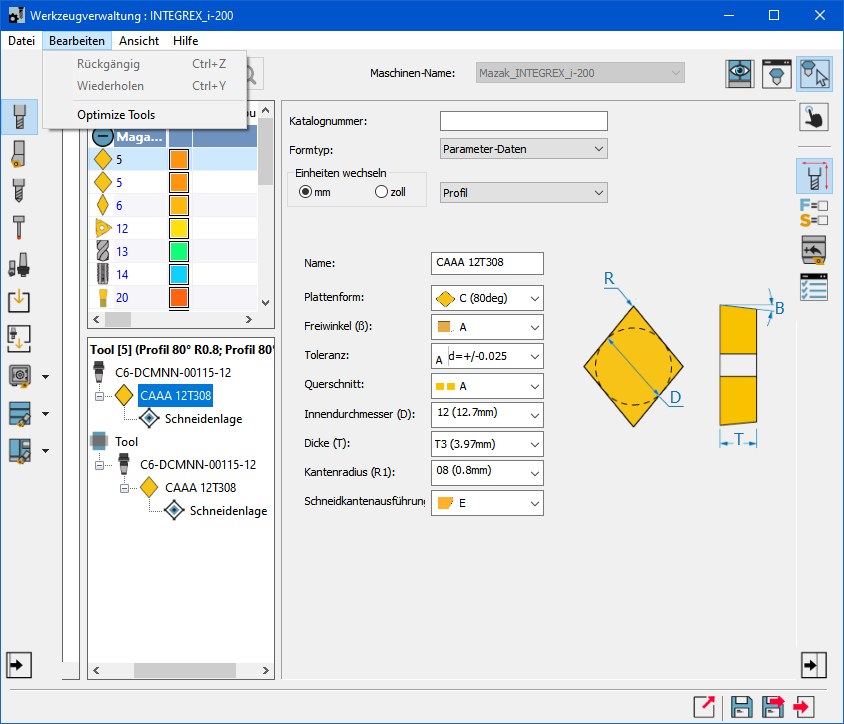
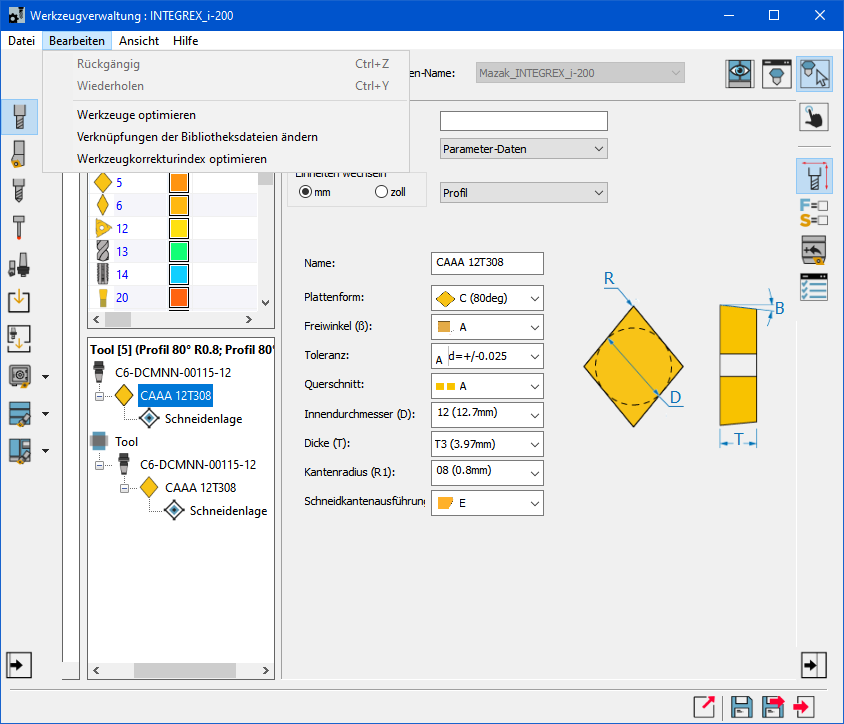
Add files via upload

Changed region(s): [[0.0616, 0.0608, 0.4313, 0.2431], [0.4313, 0.0608, 0.4929, 0.1215]]

diff --git a/INTEGREX_-_ToolKit_Help/html/converted_CAM_parts.html b/INTEGREX_-_ToolKit_Help/html/converted_CAM_parts.html
@@ -14,13 +14,15 @@
 		<main>
 			<article>
 				<h1>Anpassungen bei CAM-Teilen aus vorherigen Versionen</h1>
+				<p>Da sich mit der neuen Werkzeugverwaltung die Art der Werkzeugdefinition geändert hat, muss nach der konvertierung bestehender CAM-Teile jeweil die Werkzeugtabelle überprüft und ggf. korrigiert werden.</p>
+				<h2>B-Achs-Werkzeuge</h2>
 				<p>Nach der Konvertierung von CAM-Teilen aus vorherigen Versionen werden Werkzeuge, die mit mehreren Korrekturen oder verschiedenen Ausrichtungen angelegt wurden, als Mehrfach-Werkzeuge – d.h. als <mark class="result" data-target="i01Multi">verschiedene Werkzeuge auf demselben Platz</mark> – aufgelistet.<br>
 					<svg width="844" height="724">
 						<image xlink:href="../img/01ConvertedToolTable.png" />
 						<rect class="SvgR" id="i01Multi" x="87" y="337" width="188" height="189" />
 					</svg>
 				</p>
-				<p>Die neue Werkzeugverwaltung bietet eine Möglichkeit, die Werkzeuge automatisch zu korrigieren. Dazu wird in der Menüleiste <mark class="target" data-target="i02Edit">Bearbeiten</mark> &rAarr; <mark class="target" data-target="i02Optimize">Optimize Tools</mark> angewählt.<br>
+				<p>Die neue Werkzeugverwaltung bietet eine Möglichkeit, die Werkzeuge automatisch zu korrigieren. Dazu wird in der Menüleiste <mark class="target" data-target="i02Edit">Bearbeiten</mark> &rAarr; <mark class="target" data-target="i02Optimize">Werkzeuge optimieren</mark> angewählt.<br>
 					<svg width="844" height="724">
 						<image xlink:href="../img/02OptimizeToolsSelection.png" />
 						<rect class="SvgT" id="i02Edit" x="42" y="31" width="70" height="19" />
@@ -29,16 +31,16 @@
 				</p>
 				<p>Im folgenden Fenster kann – für jede erkannte Werkzeugpaarung separat – entschieden werden, wie die Werkzeugpaare korrigiert werden sollen.<br>
 					<ul>
-						<li><mark class="setting" data-target="i03Multi">Keep as Multi-Tool</mark>: Die Option nimmt keine Änderung an der Art des Werkzeugpaares vor. Diese Option ist beispielsweise zu verwenden, wenn verschiedene Werkzeuge in einem Mehrfach-Halter gespannt sind.</li>
-						<li><mark class="setting" data-target="i03Separate">Disassambly to separate Tools</mark>: Die Option macht aus der Werkzeugpaarung einzelne Werkzeuge mit jeweils einer eigenen Werkzeugnummer.<br>
+						<li><mark class="setting" data-target="i03Multi">Als Mehrfachwerkzeug behalten</mark>: Die Option nimmt keine Änderung an der Art des Werkzeugpaares vor. Diese Option ist beispielsweise zu verwenden, wenn verschiedene Werkzeuge in einem Mehrfach-Halter gespannt sind.</li>
+						<li><mark class="setting" data-target="i03Separate">Separate Werkzeuge erstellen</mark>: Die Option macht aus der Werkzeugpaarung einzelne Werkzeuge mit jeweils einer eigenen Werkzeugnummer.<br>
 							Dabei ist zu beachten, dass ein Werkzeug die ursprüngliche Werkzeugnummer behält und für die anderen die jeweils niedrigste freie Werkzeugnummer verwendet wird. Ist von mehreren Werkzeugen mit derselben Nummer nur eins in Verwendung, behält dieses die ursprüngliche Werkzeugnummer.</li>
-						<li><mark class="setting" data-target="i03Same">Same Tool with new Cutting Point</mark>: Diese Option ist die wahrscheinlich meist zutreffende Funktion, mit der aus den Werkzeugpaaren ein Werkzeug mit 2 – ggf. auch mehr – Schneidenpunkten erzeugt wird.</li>
+						<li><mark class="setting" data-target="i03Same">Gleiches Werkzeug mit mehreren Schneidenlagen</mark>: Diese Option ist die wahrscheinlich meist zutreffende Funktion, mit der aus den Werkzeugpaaren ein Werkzeug mit 2 – ggf. auch mehr – Schneidenpunkten erzeugt wird.</li>
 					</ul>
 					<svg width="665" height="404">
 						<image xlink:href="../img/03OptimizeToolsOptions.png" />
-						<rect class="SvgS" id="i03Multi" x="343" y="58" width="108" height="17" />
+						<rect class="SvgS" id="i03Multi" x="343" y="58" width="173" height="17" />
 						<rect class="SvgS" id="i03Separate" x="343" y="81" width="165" height="17" />
-						<rect class="SvgS" id="i03Same" x="343" y="102" width="288" height="17" />
+						<rect class="SvgS" id="i03Same" x="343" y="102" width="288" height="32" />
 					</svg>
 				</p>
 				Nach einer Optimierung mit <mark>Same Tool with new Cutting Point</mark> wird im <mark class="result" data-target="i04Assembly">Komplettwerkzeug-Aufbau</mark> aus mehreren Werkzeugen auf einem Werkzeugplatz <mark class="result" data-target="i04CutPnt">ein Werkzeug mit 2 Schneidenpunkten</mark> (in diesem Fall mit „Schneidenlage“ und „Schneidenlage_1“ benannt).<br>
@@ -50,10 +52,26 @@
 					<rect class="SvgR" id="i04Assembly" x="85" y="335" width="192" height="347" />
 					<rect class="SvgR" id="i04CutPnt" x="88" y="338" width="186" height="116" />
 				</svg>
+				<hr>
+				<h2>Revolver-Werkzeuge</h2>
+				<p>Speziell für die um X rotierende Revolver der INTEGREX ST-Maschinen und die damit mögliche Ausrichtung des selben Werkzeugedwar für Haupt- und Gegenspindel, machten in Verbindung mit der neuen Werkzeugverwaltung eine Korrektur der Maschinen-ID (VMID) notwendig.<br>
+					Dadurch bedingt sind die Revolver-Werkzeuge konvertierter CAM-Teilen <mark class="result" data-target="i201HolderRotated">um 180°</mark> rotiert ausgerichtet.<br>
+					<svg width="1588" height="712">
+						<image xlink:href="../img/201TurretToolStationDirection.png" />
+						<rect class="SvgR" id="i201HolderRotated" x="971" y="81" width="607" height="503" />
+					</svg>
+				</p>
+				<p>Um das zu korrigieren muss lediglich bei der jeweils <mark class="target" data-target="i202Holder">obersten Komponente</mark> auf dem jeweiligen Werkzeugplatz beim <mark class="target" data-target="i202Joint">Verbindungspunkt</mark> die <mark class="setting" data-target="i202RotZ">Drehung um Z</mark> um 180° korigiert werden.</p>
+					<svg width="1588" height="712">
+						<image xlink:href="../img/202TurretToolCorrected.png" />
+						<rect class="SvgT" id="i202Holder" x="119" y="469" width="178" height="27" />
+						<rect class="SvgT" id="i202Joint" x="912" y="191" width="41" height="39" />
+						<rect class="SvgS" id="i202RotZ" x="616" y="193" width="94" height="24" />
+					</svg>
 			</article>
 		</main>
 		<nav class="TOC">
-			<a href="../main.html"><b>Start</b></a><br>
+			<a href="../help_de.html"><b>Start</b></a><br>
 			<ul><li><a href="tool_predefinitions.html" title="Enthält allgemeine Informationen zu den vordefinierbaren Werten">Vordefinition von Dreh-Werkzeugen</a>
 				<li><a class="curr">Konvertierte CAM-Teile</a></li></ul>
 		</nav>

diff --git a/INTEGREX_-_ToolKit_Help/html/example_tool_slope.html b/INTEGREX_-_ToolKit_Help/html/example_tool_slope.html
@@ -21,22 +21,22 @@
 					<svg width="1332" height="722">
 						<image xlink:href="../img/101Tool90degStandard.png" />
 						<rect class="SvgT" id="i101MeasureOri" x="559" y="168" width="230" height="107" />
-						<rect class="SvgS" id="i101Ori" x="572" y="196" width="71" height="19" />
-						<rect class="SvgS" id="i101SlopeAng" x="572" y="226" width="203" height="26" />
+						<rect class="SvgT" id="i101Ori" x="572" y="196" width="71" height="19" />
+						<rect class="SvgT" id="i101SlopeAng" x="572" y="226" width="203" height="26" />
 					</svg></li>
 				<li>Ausgerichtet für das Längsdrehen an der Gegenspindel - <mark class="setting" data-target="i102Ori">rückwärts ausgerichtet</mark>, <mark class="setting" data-target="i102SlopeAng">Anstellwinkel 90°</mark>
 					<svg width="1332" height="722">
 						<image xlink:href="../img/102Tool90degReversedForSub.png" />
 						<rect class="SvgT" id="i102MeasureOri" x="559" y="168" width="230" height="107" />
-						<rect class="SvgS" id="i102Ori" x="572" y="196" width="71" height="19" />
-						<rect class="SvgS" id="i102SlopeAng" x="572" y="226" width="203" height="26" />
+						<rect class="SvgT" id="i102Ori" x="572" y="196" width="71" height="19" />
+						<rect class="SvgT" id="i102SlopeAng" x="572" y="226" width="203" height="26" />
 					</svg></li>
 				<li>Ausgerichtet für das Plandrehen an der Hauptspindel - <mark class="setting" data-target="i103Ori">rückwärts ausgerichtet</mark>, <mark class="setting" data-target="i103SlopeAng">Anstellwinkel 0°</mark>
 					<svg width="1332" height="722">
 						<image xlink:href="../img/103Tool0degReversed.png" />
 						<rect class="SvgT" id="i103MeasureOri" x="559" y="168" width="230" height="107" />
-						<rect class="SvgS" id="i103Ori" x="572" y="196" width="71" height="19" />
-						<rect class="SvgS" id="i103SlopeAng" x="572" y="226" width="203" height="26" />
+						<rect class="SvgT" id="i103Ori" x="572" y="196" width="71" height="19" />
+						<rect class="SvgT" id="i103SlopeAng" x="572" y="226" width="203" height="26" />
 					</svg></li></ol>
 				<hr>
 				<h2>Beispiel - 45°-Srupp-Werkzeug</h2>
@@ -44,27 +44,27 @@
 					<svg width="1332" height="722">
 						<image xlink:href="../img/111Tool45degStandard.png" />
 						<rect class="SvgT" id="i111MeasureOri" x="559" y="168" width="230" height="107" />
-						<rect class="SvgS" id="i111Ori" x="572" y="196" width="71" height="19" />
-						<rect class="SvgS" id="i111SlopeAng" x="572" y="226" width="203" height="26" />
+						<rect class="SvgT" id="i111Ori" x="572" y="196" width="71" height="19" />
+						<rect class="SvgT" id="i111SlopeAng" x="572" y="226" width="203" height="26" />
 					</svg></li>
 				<li>Ausgerichtet für das Längs- und Plandrehen an der Hauptspindel bei linksdrehender Spindel - <mark class="setting" data-target="i112Ori">rückwärts ausgerichtet</mark>, <mark class="setting" data-target="i112SlopeAng">Anstellwinkel 45°</mark>
 					<svg width="1332" height="722">
 						<image xlink:href="../img/112Tool45degReversed.png" />
 						<rect class="SvgT" id="i112MeasureOri" x="559" y="168" width="230" height="107" />
-						<rect class="SvgS" id="i112Ori" x="572" y="196" width="71" height="19" />
-						<rect class="SvgS" id="i112SlopeAng" x="572" y="226" width="203" height="26" />
+						<rect class="SvgT" id="i112Ori" x="572" y="196" width="71" height="19" />
+						<rect class="SvgT" id="i112SlopeAng" x="572" y="226" width="203" height="26" />
 					</svg></li>
 				<li>Ausgerichtet für das Längs- und Plandrehen an der Gegenspindel bei rechtsdrehender Spindel - <mark class="setting" data-target="i113Ori">rückwärts ausgerichtet</mark>, <mark class="setting" data-target="i113SlopeAng">Anstellwinkel 135°</mark>
 					<svg width="1332" height="722">
 						<image xlink:href="../img/113Tool45degReversedForSub.png" />
 						<rect class="SvgT" id="i113MeasureOri" x="559" y="168" width="230" height="107" />
-						<rect class="SvgS" id="i113Ori" x="572" y="196" width="71" height="19" />
-						<rect class="SvgS" id="i113SlopeAng" x="572" y="226" width="203" height="26" />
+						<rect class="SvgT" id="i113Ori" x="572" y="196" width="71" height="19" />
+						<rect class="SvgT" id="i113SlopeAng" x="572" y="226" width="203" height="26" />
 					</svg></li></ol>
 			</article>
 		</main>
 		<nav class="TOC">
-			<a href="../main.html"><b>Start</b></a><br>
+			<a href="../help_de.html"><b>Start</b></a><br>
 			<ul><li><a href="tool_predefinitions.html" title="Enthält allgemeine Informationen zu den vordefinierbaren Werten">Vordefinition von Dreh-Werkzeugen</a>
 					<ul><li><a href="tool_slope.html" title="Erläutert die, für die Werkzeugausrichtung im Schwenkkopf, nötigen Werte">Werkzeug-Ausrichtung <b>B-Achse</b></a></li>
 							<ul><li><a class="curr">Beispiel: Werkzeug-Ausrichtung</a></li>

diff --git a/INTEGREX_-_ToolKit_Help/help_de.html b/INTEGREX_-_ToolKit_Help/help_de.html
@@ -15,7 +15,7 @@
 			<article>
 				<h1>Einleitung</h1>
 				<p>Für Dreh-Werkzeuge sind, abhängig von der Maschinensteuerung, verschiedene Vorgehensweisen bei der Definition der Werkzeuge notwendig.<br>
-					Diese Hilfe gibt einen Überblick über die Besonderheiten der SolidCAM Werkzeugverwaltung in Verbindung mit Maschine der Mazak <b>INTEGREX-Serie</b> von der Mark III-Serie mit Steuerungen vom Typ <mark class="ctrlname">PC FUSION 640MT</mark> bis hin zu Maschinen der i-Serie mit <mark class="ctrlname">SmoothX</mark>-Steuerungen.
+					Diese Hilfe gibt einen Überblick über die Besonderheiten der SolidCAM Werkzeugverwaltung in Verbindung mit Maschine der Mazak <b>INTEGREX-Serie</b> von der Mark III-Serie mit Steuerungen vom Typ <mark class="ctrlname">PC FUSION 640MT</mark> bis hin zu Maschinen der i-Serie mit <mark class="ctrlname">Smooth</mark>-Steuerungen.
 				</p>
 			</article>
 		</main>
@@ -24,8 +24,8 @@
 			<ul><li><a href="html/tool_predefinitions.html" title="Enthält allgemeine Informationen zu den vordefinierbaren Werten">&rAarr; Vordefinition von Dreh-Werkzeugen</a>
 					<ul><li><a href="html/tool_slope.html" title="Erläutert die, für die Werkzeugausrichtung im Schwenkkopf, nötigen Werte">&rAarr; Werkzeug-Ausrichtung <b>B-Achse</b></a></li>
 							<ul><li><a href="html/example_tool_slope.html" title="Beispiele für verschiedene Werkzeugausrichtungen">&rAarr; Beispiel: Werkzeug-Ausrichtung</a></li>
-								<li><a href="html/example_flash_tools.html" title="Besipiele speziell für die Flash-Tool-Option">&rAarr; Beispiel: Flash-Tools</a></li></ul></li>
-						<li><a href="html/turret_tool_ori.html" title="Erläutert die, für die Werkzeugausrichtung im Revolver, nötigen Werte">&rAarr; Werkzeug-Ausrichtung <b>Revolver</b></a></li>
+								<li><a href="html/example_flash_tools.html" title="Besipiele speziell für die Flash-Tool-Option">&rAarr; Beispiel: Flash-Tools <i>(Steuerungs-Option)</i></a></li></ul></li>
+						<li><a href="html/turret_tool_ori.html" title="Erläutert die, für die Werkzeugausrichtung im Revolver, nötigen Werte">&rAarr; Werkzeug-Ausrichtung <b>Revolver</b> <i>(nur bei ST-Maschinen)</i></a></li>
 						<li><a href="html/nose_points.html" title="Erläutert die Varianten der Schneiden-Nullpunkt-Definition">&rAarr; Schneiden-Nullpunkt</a>
 							<ul><li><a href="html/example_nose_points.html" title="Enthält Beispiele zur Schneiden-Nullpunkt-Definition">&rAarr; Beispiel: Schneiden-Nullpunkt</a></li></ul></li></ul>
 				<li><a href="html/converted_CAM_parts.html" title="Erklärt notwendige Änderungen in der Werkzeugverwaltung bei CAM-Teilen aus vorherigen CAM-Versionen">&rAarr; Konvertierte CAM-Teile</a></li></ul>

diff --git a/INTEGREX_-_ToolKit_Help/html/nose_points.html b/INTEGREX_-_ToolKit_Help/html/nose_points.html
@@ -28,7 +28,7 @@
 					</svg></p>
 				<p>Definiert keiner der Quadranten-Punkte den Vermessungspunkt, wie z.B. bei einem Gewinde-Stahl, können die <mark class="setting" data-target="i15NumNosePntDef">Versatzwerte</mark> auch direkt angegeben werden. Durch die Wert-Änderung wird in der <mark class="setting" data-target="i15NosePntSelect">Quadranten-Punkt-Auswahl</mark> immer der den aktuellen Versatzwerten naheliegenste Quadranten-Punkt angezeigt.</p>
 				<p>Zur Kontrolle des gewählten Quadranten-Punktes bzw. der angegebenen Versatzwerte kann auch die <mark class="result" data-target="i15ToolPreview">Werkzeug-Vorschau</mark> zur Hilfe genommen werden.<br>
-					Dabei ist zu beachten, dass die Ansicht in der Werkzeugvorschau frei verändert werden kann, wodurch die <mark class="result" data-target="i15HomePos">Ausrichtung der Werkzeug-Vorschau</mark> nur selten mit der <mark class="result" data-target="i15NosePntOri">Ausrichtung der Quadranten-Punkt-Auswahl</mark> übereinstimmt. Dennoch kann damit die <mark class="setting" data-target="i15NosePntPreview">korrekte Lage</mark> des gewählten Punktes überprüft werden.</p>
+					Dabei ist zu beachten, dass die Ansicht in der Werkzeugvorschau frei verändert werden kann, wodurch die <mark class="result" data-target="i15HomePos">Ausrichtung der Werkzeug-Vorschau</mark> möglicherweise nicht mit der <mark class="result" data-target="i15NosePntOri">Ausrichtung der Quadranten-Punkt-Auswahl</mark> übereinstimmt. Die korrekte Position des bestimmten <mark class="setting" data-target="i15NosePntPreview">Schneiden-Bezugspunktes</mark> kann in der Vorschau trotzdem überprüft werden.</p>
 				<p><svg width="1412" height="722">
 						<image xlink:href="../img/15NosePointSettings.png" />
 						<rect class="SvgS" id="i15NosePntAct" x="288" y="167" width="69" height="21" />
@@ -99,7 +99,7 @@
 			</article>
 		</main>
 		<nav class="TOC">
-			<a href="../main.html"><b>Start</b></a><br>
+			<a href="../help_de.html"><b>Start</b></a><br>
 			<ul><li><a href="tool_predefinitions.html" title="Enthält allgemeine Informationen zu den vordefinierbaren Werten">Vordefinition von Dreh-Werkzeugen</a>
 					<ul><li><a href="tool_slope.html" title="Erläutert die, für die Werkzeugausrichtung im Schwenkkopf, nötigen Werte">Werkzeug-Ausrichtung <b>B-Achse</b></a></li>
 						<li><a href="turret_tool_ori.html" title="Erläutert die, für die Werkzeugausrichtung im Revolver, nötigen Werte">Werkzeug-Ausrichtung <b>Revolver</b></a></li>

diff --git a/INTEGREX_-_ToolKit_Help/html/example_nose_points.html b/INTEGREX_-_ToolKit_Help/html/example_nose_points.html
@@ -251,7 +251,7 @@
 			</article>
 		</main>
 		<nav class="TOC">
-			<a href="../main.html"><b>Start</b></a><br>
+			<a href="../help_de.html"><b>Start</b></a><br>
 			<ul><li><a href="tool_predefinitions.html" title="Enthält allgemeine Informationen zu den vordefinierbaren Werten">Vordefinition von Dreh-Werkzeugen</a>
 					<ul><li><a href="tool_slope.html" title="Erläutert die, für die Werkzeugausrichtung im Schwenkkopf, nötigen Werte">Werkzeug-Ausrichtung <b>B-Achse</b></a></li>
 						<li><a href="turret_tool_ori.html" title="Erläutert die, für die Werkzeugausrichtung im Revolver, nötigen Werte">Werkzeug-Ausrichtung <b>Revolver</b></a></li>

diff --git a/INTEGREX_-_ToolKit_Help/html/example_flash_tools.html b/INTEGREX_-_ToolKit_Help/html/example_flash_tools.html
@@ -274,7 +274,7 @@
 			</article>
 		</main>
 		<nav class="TOC">
-			<a href="../main.html"><b>Start</b></a><br>
+			<a href="../help_de.html"><b>Start</b></a><br>
 			<ul><li><a href="tool_predefinitions.html" title="Enthält allgemeine Informationen zu den vordefinierbaren Werten">Vordefinition von Dreh-Werkzeugen</a>
 					<ul><li><a href="tool_slope.html" title="Erläutert die, für die Werkzeugausrichtung im Schwenkkopf, nötigen Werte">Werkzeug-Ausrichtung <b>B-Achse</b></a></li>
 							<ul><li><a href="example_tool_slope.html" title="Beispiele für verschiedene Werkzeugausrichtungen">Beispiel: Werkzeug-Ausrichtung</a></li>

diff --git a/INTEGREX_-_ToolKit_Help/html/tool_predefinitions.html b/INTEGREX_-_ToolKit_Help/html/tool_predefinitions.html
@@ -40,7 +40,7 @@
 			</article>
 		</main>
 		<nav class="TOC">
-			<a href="../main.html"><b>Start</b></a><br>
+			<a href="../help_de.html"><b>Start</b></a><br>
 			<ul><li><a class="curr">Vordefinition von Dreh-Werkzeugen</a>
 					<ul><li><a href="tool_slope.html" title="Erläutert die, für die Werkzeugausrichtung im Schwenkkopf, nötigen Werte">Werkzeug-Ausrichtung <b>B-Achse</b></a></li>
 						<li><a href="turret_tool_ori.html" title="Erläutert die, für die Werkzeugausrichtung im Revolver, nötigen Werte">Werkzeug-Ausrichtung <b>Revolver</b></a></li>

diff --git a/INTEGREX_-_ToolKit_Help/html/turret_tool_ori.html b/INTEGREX_-_ToolKit_Help/html/turret_tool_ori.html
@@ -85,7 +85,7 @@
 			</article>
 		</main>
 		<nav class="TOC">
-			<a href="../main.html"><b>Start</b></a><br>
+			<a href="../help_de.html"><b>Start</b></a><br>
 			<ul><li><a href="tool_predefinitions.html" title="Enthält allgemeine Informationen zu den vordefinierbaren Werten">Vordefinition von Dreh-Werkzeugen</a>
 					<ul><li><a href="tool_slope.html" title="Erläutert die, für die Werkzeugausrichtung im Schwenkkopf, nötigen Werte">Werkzeug-Ausrichtung <b>B-Achse</b></a></li>
 						<li><a class="curr">Werkzeug-Ausrichtung <b>Revolver</b></a></li>

diff --git a/INTEGREX_-_ToolKit_Help/html/tool_slope.html b/INTEGREX_-_ToolKit_Help/html/tool_slope.html
@@ -106,7 +106,7 @@
 			</article>
 		</main>
 		<nav class="TOC">
-			<a href="../main.html"><b>Start</b></a><br>
+			<a href="../help_de.html"><b>Start</b></a><br>
 			<ul><li><a href="tool_predefinitions.html" title="Enthält allgemeine Informationen zu den vordefinierbaren Werten">Vordefinition von Dreh-Werkzeugen</a>
 					<ul><li><a class="curr">Werkzeug-Ausrichtung <b>B-Achse</b></a>
 							<ul><li><a href="example_tool_slope.html" title="Beispiele für verschiedene Werkzeugausrichtungen">Beispiel: Werkzeug-Ausrichtung</a></li>
